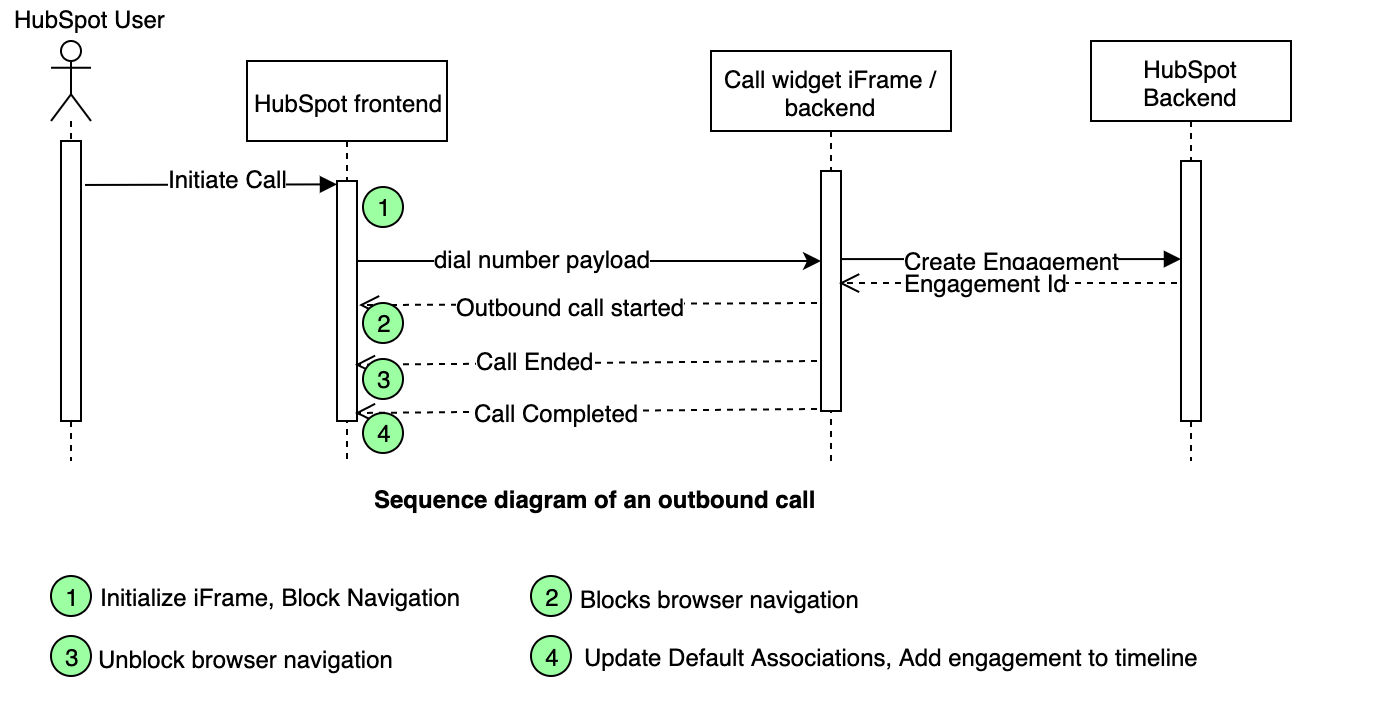
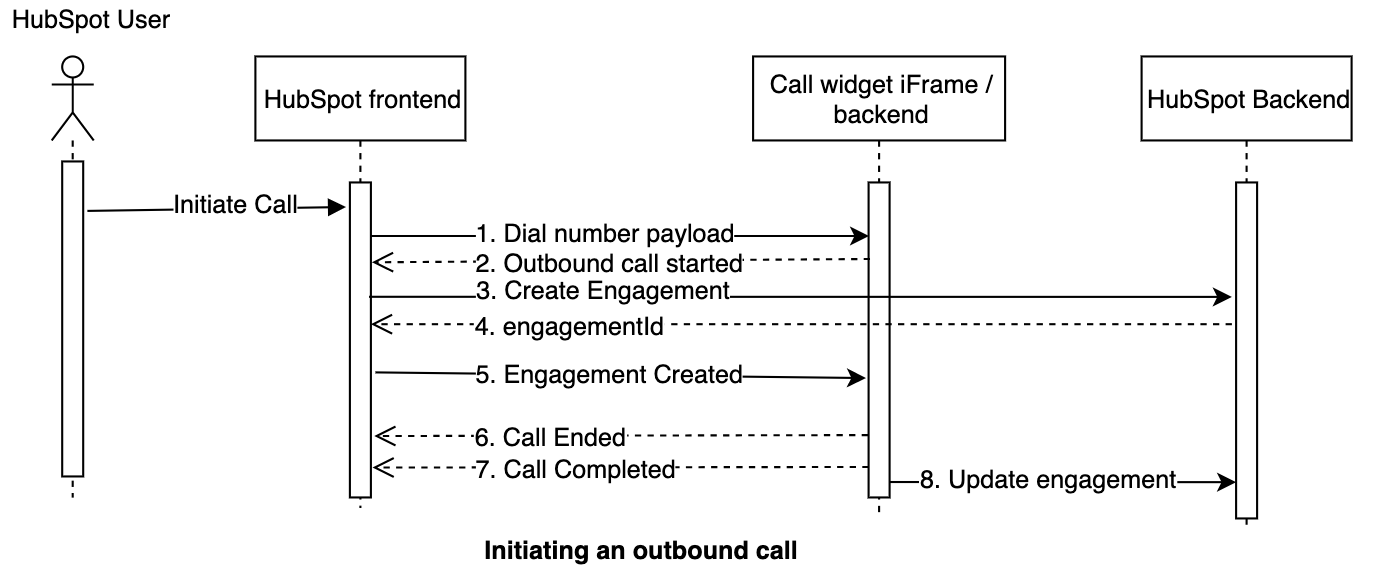
A few more documentation updates.

diff --git a/README.md b/README.md
@@ -26,6 +26,31 @@ Download the SDK using npm or yarn
 npm install -s @hubspot/calling-extensions-sdk
 ```
 
+#### Running the demo Calling Extension Widget project
+
+##### Run the demo widget project
+
+```shell
+# install npm build dependencies and start the demo project
+# The following commands will automatically start the browser on the demo page.
+cd /demo
+npm start
+```
+
+##### Add local storage override for calling extensions
+
+```js
+// Add the following localstorage override for demo widget
+localStorage.setItem(
+  "LocalSettings:Sales:CallingExtensions",
+  '{"name": "Demo widget", "url": "https://localhost:9025/"}'
+);
+```
+
+##### Launch the demo widget from HubSpot
+
+Navigate to the a contact/company page in HubSpot and launch calling, the demo widget should load inside an iFrame.
+
 ### Using the Calling Extension SDK
 
 The Calling Extension SDK exposes a simple API for HubSpot and a Soft Phone to exchange messages. The messages are sent through methods exposed by SDK and received through eventHandlers.
@@ -117,8 +142,11 @@ extensions.userLoggedOut();
 
 ```js
 // Sends a message to notify HubSpot that an outgoing call has started.
-// This is a case where a user dials a number directly throught the call widget.
-const callInfo = { phoneNumber: string };
+
+const callInfo = {
+  phoneNumber: string, // optional unless call is initiated by the widget
+  createEngagement: true // whether HubSpot should create an engagement for this call
+};
 extensions.outgoingCall(callInfo);
 ```
 
@@ -162,19 +190,6 @@ extensions.callEnded();
 //   2) set the default associations on the engagement
 const data = { engagementId: number };
 extensions.callCompleted(data);
-```
-
-</p>
-</details>
-
-<details>
- <summary>resizeWidget</summary>
- <p>
-
-```js
-// Sends a message to HubSpot to resize the iFrame
-const newSize = { width: number, height: number };
-extensions.resizeWidget(newSize);
 ```
 
 </p>
@@ -256,45 +271,15 @@ onDialNumber(data) {
 </p>
 </details>
 
-### Running the demo Calling Extension Widget project
-
-The calling extensions are enabled for any portal that is starter or above.
-
-#### Run the demo widget project
-
-```shell
-# install npm build dependencies and start the demo project
-cd /demo
-npm i
-npm start
-```
-
-Load the demo page in chrome and accept the invalid cert exception
-
-#### Add local storage override for calling extensions
-
-Add the following localstorage override for testing purposes -
-
-```js
-localStorage.setItem(
-  "LocalSettings:Sales:CallingExtensions",
-  '{"name": "Demo widget", "url": "https://localhost:9025/"}'
-);
-```
-
-#### Navigate to a contacts/company page and launch call
-
-The calling extension demo widget should load inside an iFrame.
-
 ## Typical message flow between the call widget and HubSpot
 
-### Loading the call widget
+### Initializing the call widget
 
 The following messages are exchanged when a call widget is instantiated.
 ![Image description](./docs/images/InitializeCallWidgetIFrame.png)
-Hubspot send the SYNC message to the widget after iFrame is loaded and repetedly send this message until it receives the SYNC_ACK response from the widget. If the SYNC_ACK response isn't received within 30 seconds, the widget is marked as failed. Note that sending SYNC/SYNC_ACK messages are handled by the framework.
+Once the widget iFrame is created, Hubspot send the SYNC message to the widget after iFrame is loaded and repetedly send this message until it receives the SYNC_ACK response from the widget. If the SYNC_ACK response isn't received within 30 seconds, the widget is marked as failed. Note that sending SYNC/SYNC_ACK messages are handled by the framework. Once the widget and host page are synchronized, the frameworks triggers the ready event.
 
-The call widget sends the Initialized event once it receives the ready event. At this point, the messages can be exchanged between the call widget and HubSpot.
+The call widget should waits for the ready event from the framework and send the initialized event to HubSpot. At this point, the messages can be exchanged between the call widget and HubSpot.
 
 ### Outbound call
 
@@ -302,7 +287,20 @@ The following messages are exchanged when user initiates a call.
 ![Image description](./docs/images/OutboundCallSequenceDiagram.png)
 Hubspot ensures the call widget is logged in before sending in a dial number event - if the widget is not logged in, an alert is shown in HubSpot's UI.
 
+Here is description of events:
+
+1. **Dial number** - HubSpot sends the dial number event.
+2. **Outbound call started** - Widget notifies HubSpot when the call is started.
+3. **Create engagement** - HubSpot creates an engagement with minimum information if requested by the widget.
+4. **Engagement created** - HubSpot creates an engagement.
+5. **Engagement created** - HubSpot sends the engagementId to the widget.
+6. **Call ended** - Widget notifies when call is ended.
+7. **Call completed** - Widget notifies when user is done with the widget user experience.
+8. **Update engagement** - Widget fetches the engagment by the engagementId, merges and updates the engagement with additional call details. [Call engagement overview](https://developers.hubspot.com/docs/methods/engagements/engagements-overview), [Docs on updating the engagement](https://developers.hubspot.com/docs/methods/engagements/update_engagement-patch)
+
 # FAQs
+
+### App
 
 <details>
  <summary>How is user authentication handled?</summary>
@@ -315,6 +313,13 @@ Hubspot ensures the call widget is logged in before sending in a dial number eve
  <summary>Is Calling Extensions hosted on a CDN?</summary>
  <p>
     No. The calling entensions is very small and should be bundled with the call widget.  If bundling the file is not possible, the npm package includes a compiled UMD bundle that can be included into HTML (../node_modules/@hubspot/calling-extensions-sdk/dist/main.js).
+</p>
+</details>
+
+<details>
+ <summary>When an engagement should be created vs updated.</summary>
+ <p>
+    A user can initiate a call from inside the HubSpot UI and outside of the HubSpot UI (e.g. mobile app/redirected number/etc.)  If a call is initiated from within HubSpot UI, HubSpot will create a call engagement and send the engagement to the call widget.  Once the call finishes, the call widget can update this engagement with additional call details.  If a call is initiated outside of HubSpot UI, the widget should create the call engagement. 
 </p>
 </details>
 
